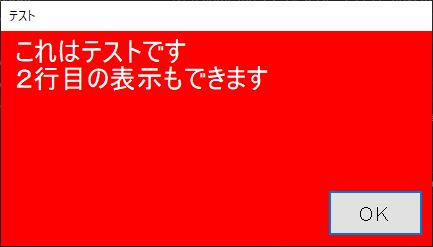
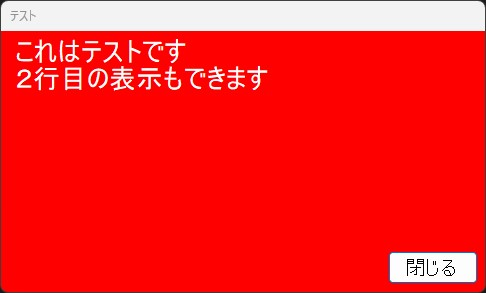
readme追加。ウィンドウサイズも変更できるように修正。

Changed region(s): [[0.0, 0.0, 1.0, 1.0]]

diff --git a/MessageForm/Message.Designer.cs b/MessageForm/Message.Designer.cs
@@ -45,11 +45,12 @@ namespace Message
             // 
             // b_ok
             // 
+            this.b_ok.Anchor = ((System.Windows.Forms.AnchorStyles)((System.Windows.Forms.AnchorStyles.Bottom | System.Windows.Forms.AnchorStyles.Right)));
             this.b_ok.Font = new System.Drawing.Font("MS UI Gothic", 16.2F, System.Drawing.FontStyle.Regular, System.Drawing.GraphicsUnit.Point, ((byte)(128)));
-            this.b_ok.Location = new System.Drawing.Point(328, 154);
+            this.b_ok.Location = new System.Drawing.Point(183, 67);
             this.b_ok.Margin = new System.Windows.Forms.Padding(2, 2, 2, 2);
             this.b_ok.Name = "b_ok";
-            this.b_ok.Size = new System.Drawing.Size(95, 46);
+            this.b_ok.Size = new System.Drawing.Size(90, 33);
             this.b_ok.TabIndex = 1;
             this.b_ok.Text = "閉じる";
             this.b_ok.UseVisualStyleBackColor = true;
@@ -59,14 +60,16 @@ namespace Message
             // 
             this.AutoScaleDimensions = new System.Drawing.SizeF(6F, 12F);
             this.AutoScaleMode = System.Windows.Forms.AutoScaleMode.Font;
-            this.ClientSize = new System.Drawing.Size(434, 211);
+            this.ClientSize = new System.Drawing.Size(284, 111);
             this.ControlBox = false;
             this.Controls.Add(this.b_ok);
             this.Controls.Add(this.lb_message);
             this.FormBorderStyle = System.Windows.Forms.FormBorderStyle.FixedSingle;
             this.Margin = new System.Windows.Forms.Padding(2, 2, 2, 2);
             this.Name = "MessageForm";
+            this.StartPosition = System.Windows.Forms.FormStartPosition.CenterScreen;
             this.Text = "Form1";
+            this.TopMost = true;
             this.ResumeLayout(false);
             this.PerformLayout();
 

diff --git a/MessageForm/Message.cs b/MessageForm/Message.cs
@@ -64,14 +64,14 @@ namespace Message
             _idx = findOption(args, "/fw");
             if (_idx != -1)
             {
-                this.Width = int.Parse(args[_idx + 1]);
-                b_ok.Location = new Point(this.Width - 122, b_ok.Location.Y);
+                this.Size = new Size(int.Parse(args[_idx + 1]), this.Size.Height);
+                b_ok.Location = new Point(this.Size.Width - 113, b_ok.Location.Y);
             }
             _idx = findOption(args, "/fh");
             if (_idx != -1)
             {
-                this.Height = int.Parse(args[_idx + 1]);
-                b_ok.Location = new Point(b_ok.Location.Y, this.Width - 122);
+                this.Size = new Size(this.Size.Width, int.Parse(args[_idx + 1]));
+                b_ok.Location = new Point(b_ok.Location.X, this.Size.Height - 80);
             }
         }
 

diff --git a/MessageForm/Program.cs b/MessageForm/Program.cs
@@ -14,8 +14,6 @@ namespace Message
         [STAThread]
         static void Main(string[] args)
         {
-            Console.WriteLine(args[0]);
-
             if (args.Length >= 2)
             {
                 Application.EnableVisualStyles();

diff --git a/MessageForm/readme.md b/MessageForm/readme.md
@@ -1,0 +1,23 @@
+# メッセージウィンドウの表示
+
+## 使い方
+コマンドプロンプトで引数処理を行うことにより、メッセージウィンドウを表示させることができる。
+
+コマンドは、
+> MessageForm.exe "ウィンドウフォームの名称" "表示したいメッセージ"
+
+とする。表示するメッセージを開業したい場合は、改行コードの`\r\n`を入力する。
+
+また、オプションの入力も可能。
+
+* /fs：フォントサイズ
+* /fc：フォントカラー（デフォルト：Black）
+* /bc：背景カラー
+* /fw：幅（デフォルト：300）
+* /fh：高さ（デフォルト：150）
+
+例えば、
+> MessageForm.exe テスト これはテストです\r\n２行目の表示もできます /fs 20 /fc White /bc Red /fw 500 /fh 300
+
+とすると、下記のようなウィンドウが表示される。  
+![sample](image/capture.JPG)
